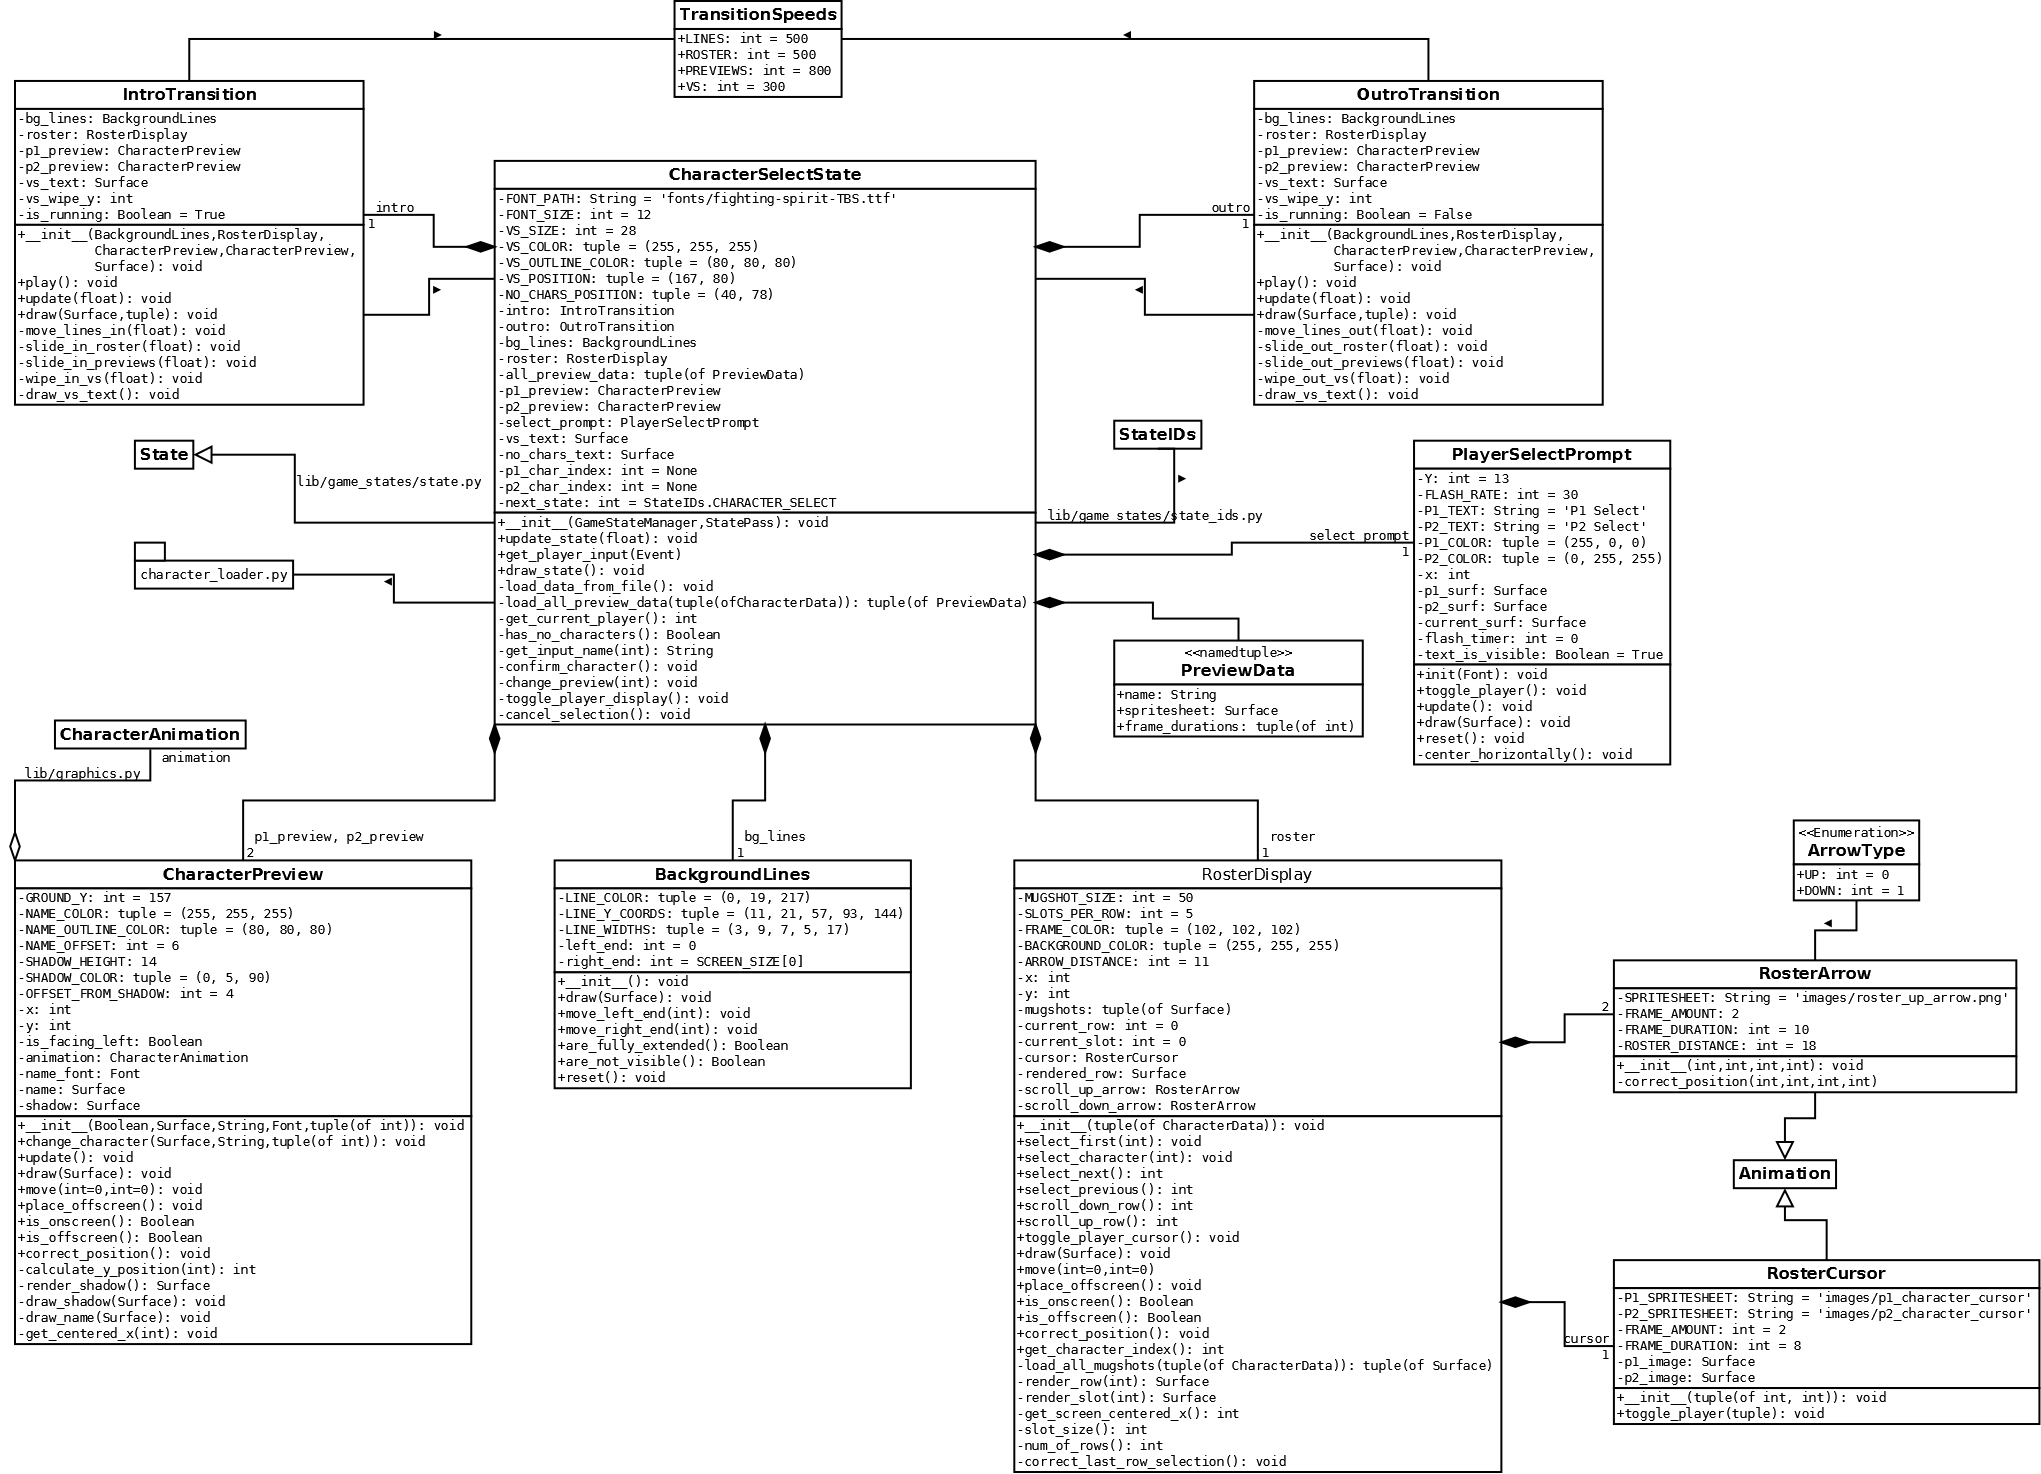
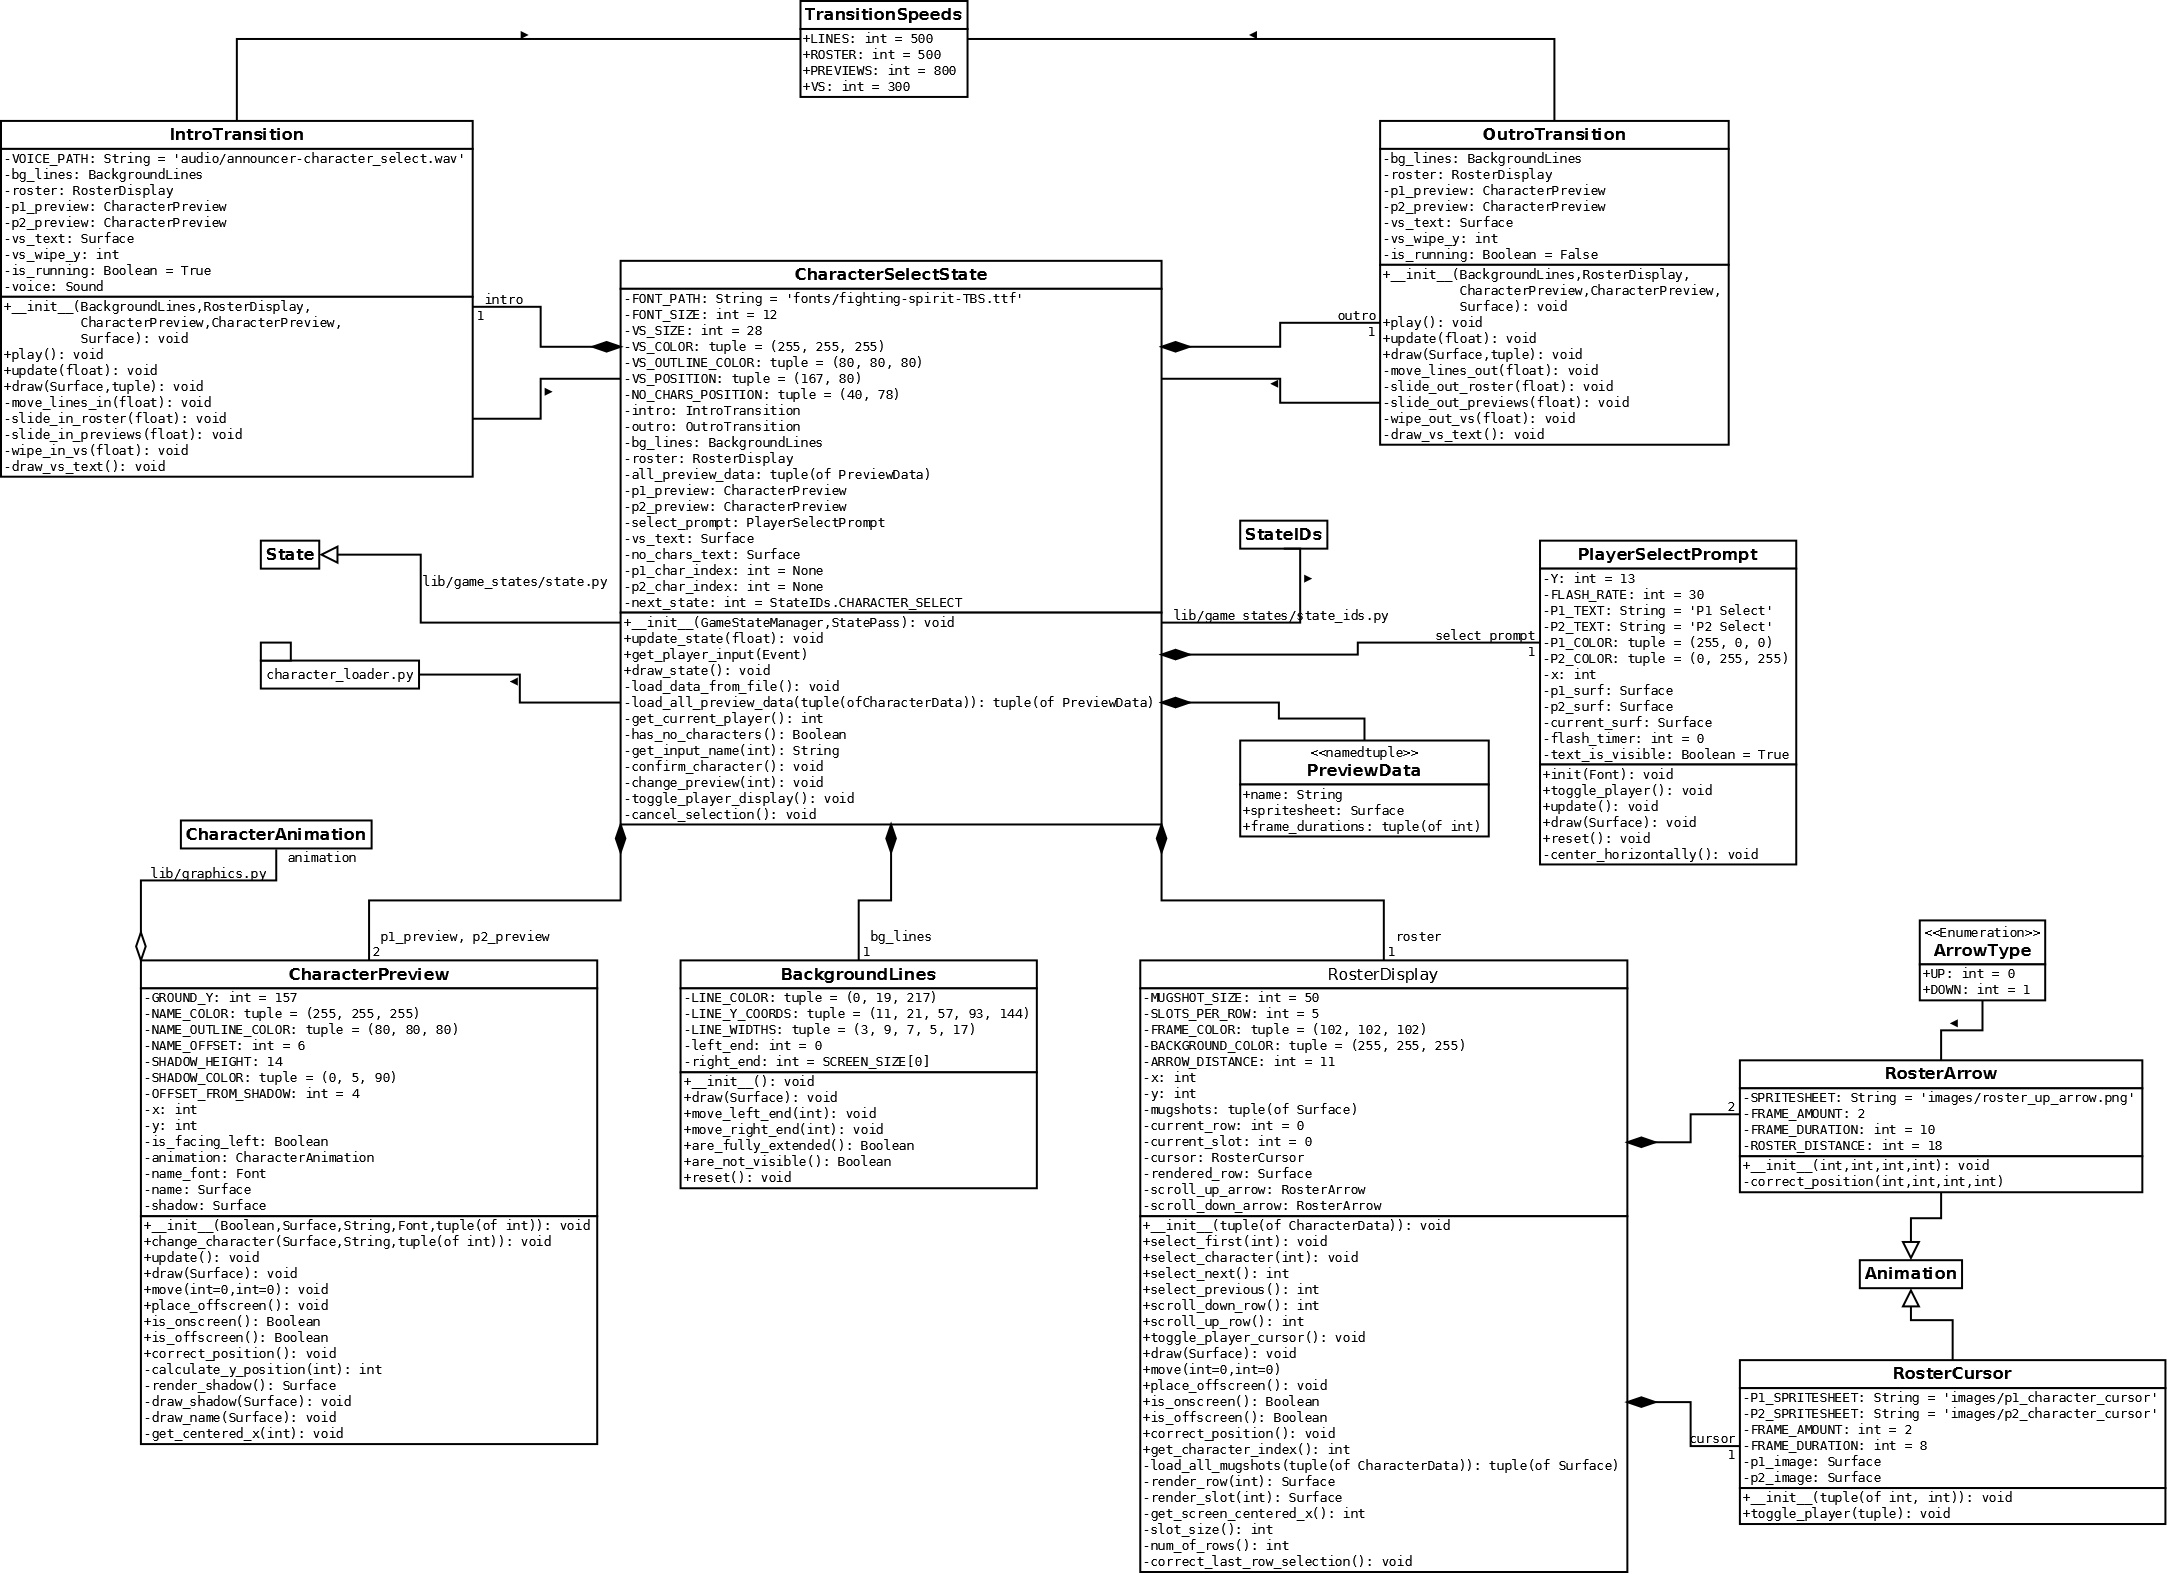
IntroTransition: Add voice clip

Changed region(s): [[0.0, 0.0, 1.0, 1.0], [0.7408, 0.9986, 0.7717, 1.0]]

diff --git a/lib/game_states/character_select_state.py b/lib/game_states/character_select_state.py
@@ -347,6 +347,10 @@ class IntroTransition(object):
         * Once the three components have finished sliding in, the VS
           VS text wipes into the middle of the screen.
 
+    Class Constants:
+        VOICE_PATH: A String for the file path to the announcer voice
+            clip.
+
     Attributes:
         bg_lines: The CharacterSelectState's BackgroundLines.
         roster: The CharacterSelectState's RosterDisplay.
@@ -355,6 +359,7 @@ class IntroTransition(object):
         vs_text: A Surface containing text that reads VS.
         vs_wipe_y: An integer for the top end of the wipe in effect,
             relative to the VS text Surface.
+        voice: A PyGame Sound that plays the announcer voice clip.
         is_running: A Boolean indicating whether the intro is currently
             running.
     """
